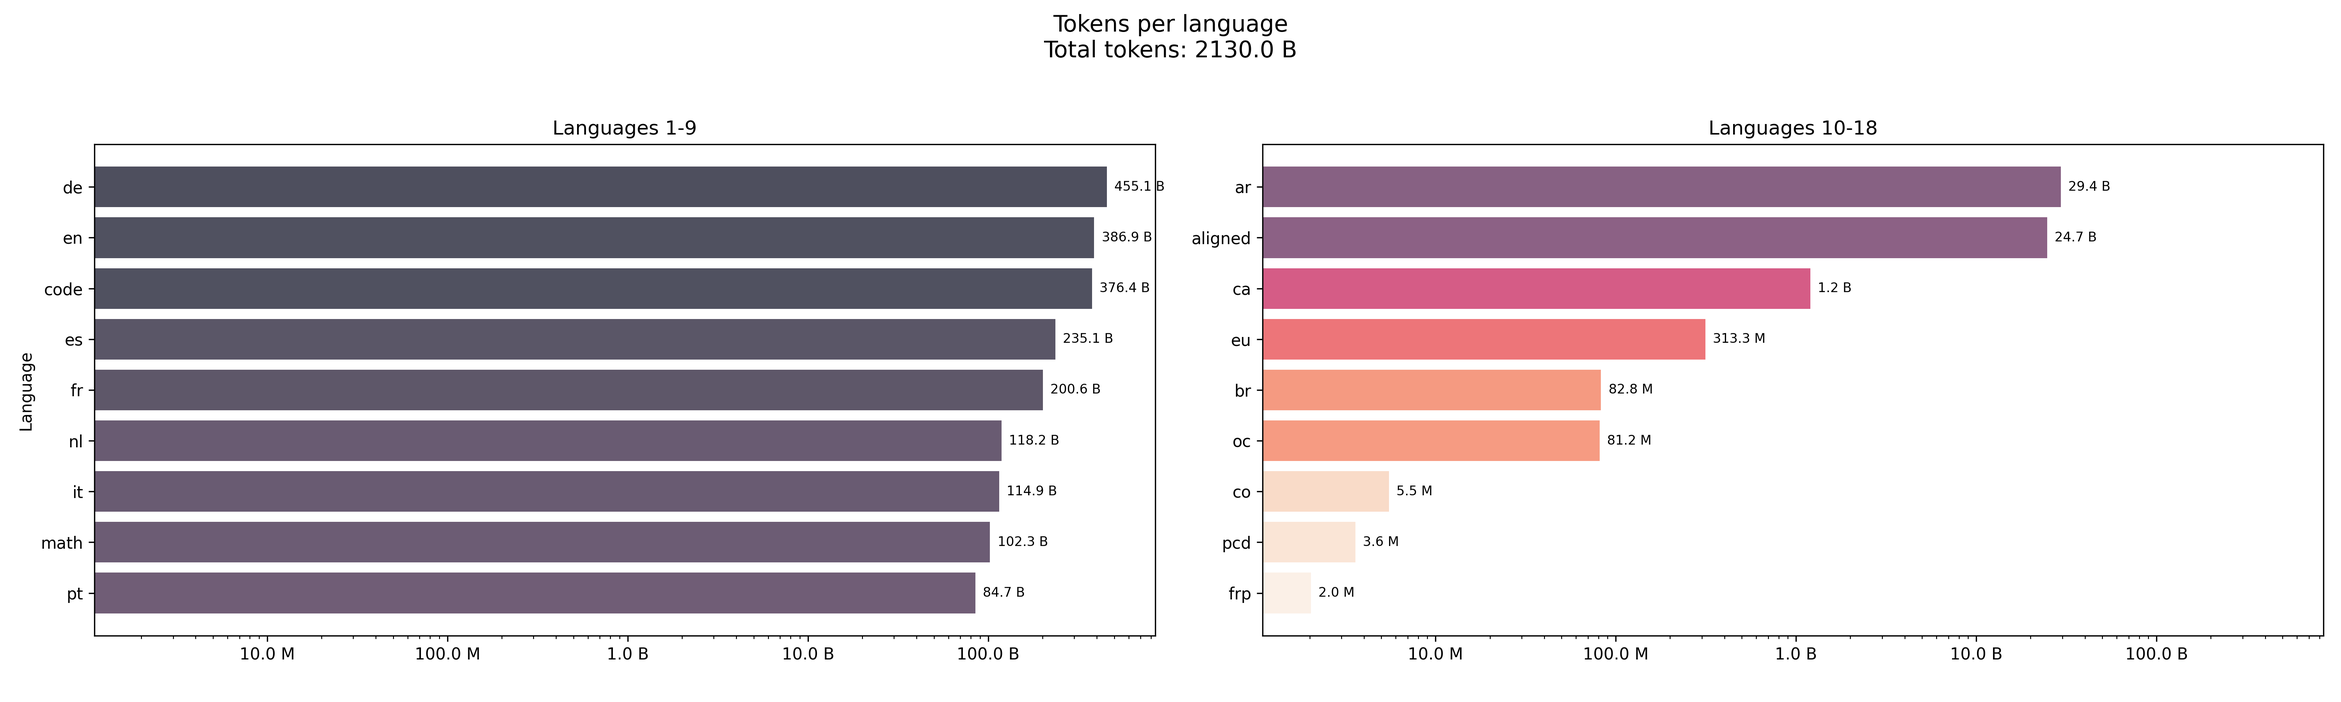
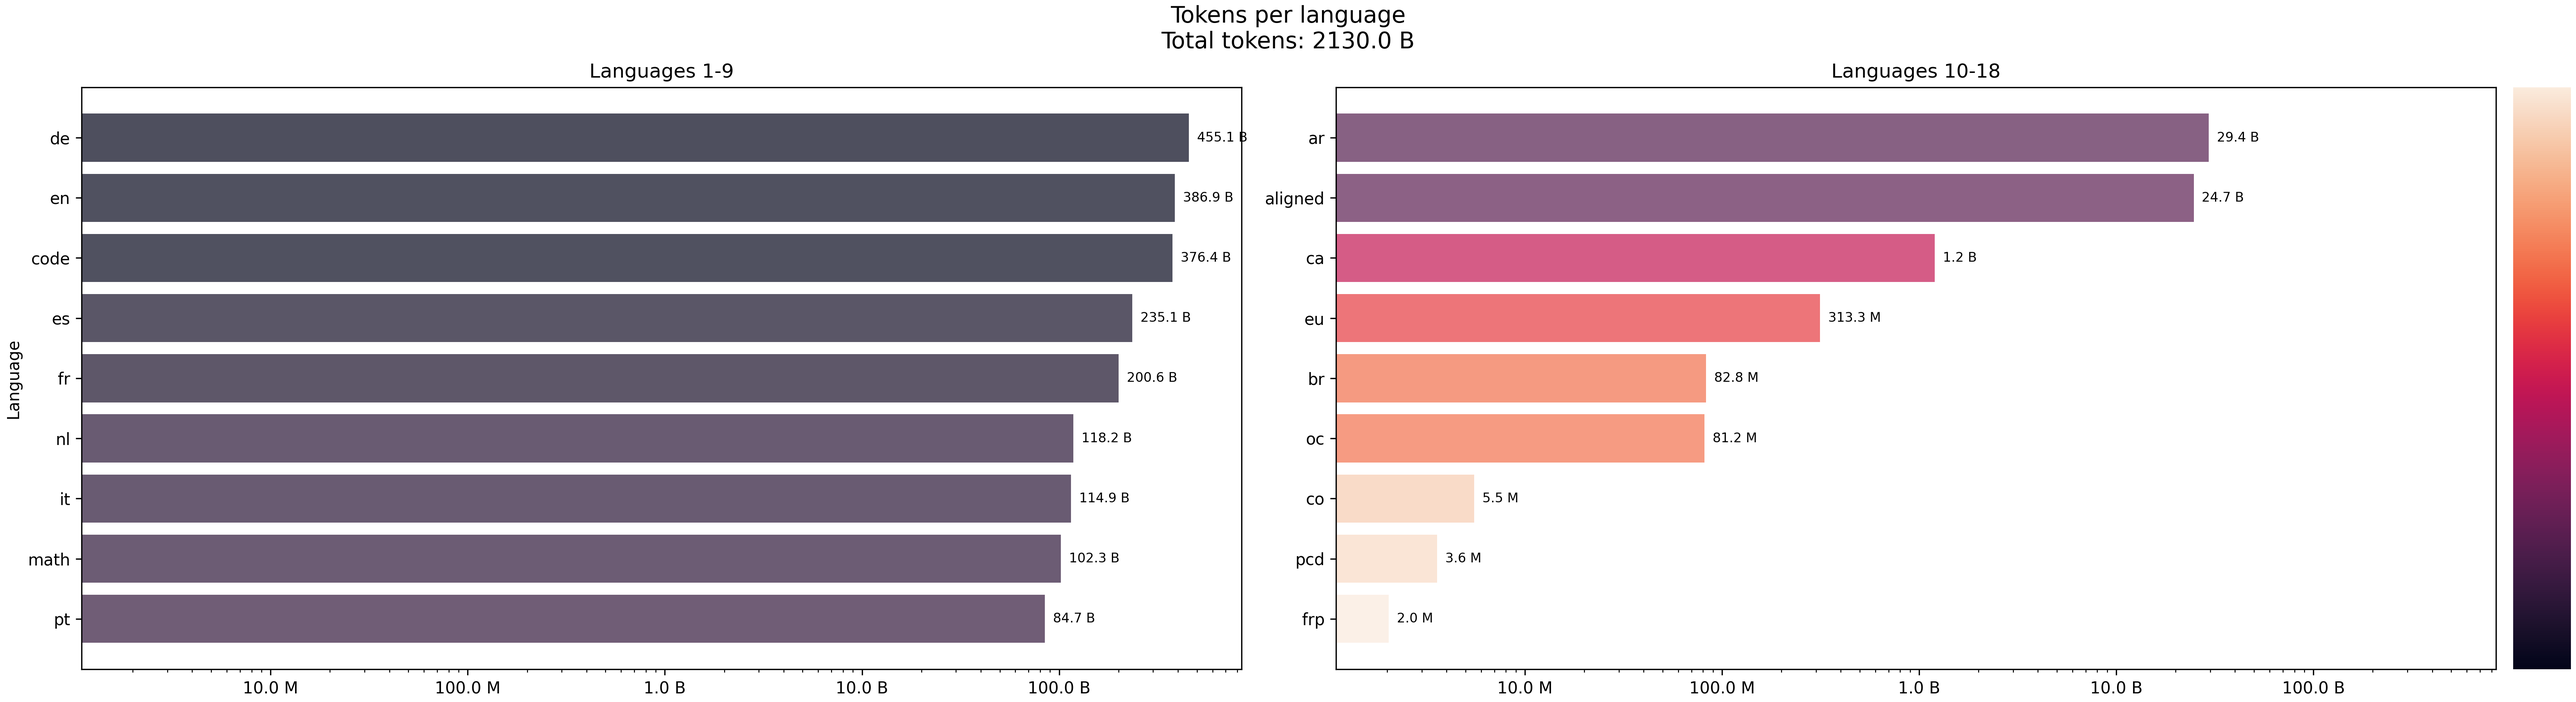
update plots

diff --git a/data/tokenization/run/visualize_token_stats.py b/data/tokenization/run/visualize_token_stats.py
@@ -10,6 +10,8 @@ from matplotlib.patches import Patch
 import math
 import numpy as np
 import matplotlib.colors as mcolors
+from matplotlib.cm import ScalarMappable
+from matplotlib.gridspec import GridSpec
 
 
 def format_tokens(tokens):
@@ -55,56 +57,57 @@ def plot_treemap(df, column_name, output_file):
     plt.close()
 
 
-# def plot_horizontal_bar(df, column_name, output_file):
-#     df = df.sort_values("total_tokens", ascending=False)
-
-#     num_bars = len(df)
-#     # Set height: base height 6 + 0.3 per bar, adjust to taste
-#     fig_height = max(6, num_bars * 0.3)
-
-#     plt.figure(figsize=(10, fig_height))
-#     colors = sb.color_palette("rocket", len(df))
-
-#     plt.barh(y=df[column_name], width=df["total_tokens"], color=colors, alpha=0.7)
-
-#     plt.xscale("log")
-#     plt.gca().xaxis.set_major_formatter(FuncFormatter(format_tokens_ticks))
-
-#     plt.xlabel("Total tokens (log scale)")
-#     plt.ylabel(column_name.capitalize())
-#     plt.title(
-#         f"Tokens per {column_name}\nTotal tokens: {df['total_tokens'].sum() / 1e9:.1f} B"
-#     )
-#     plt.gca().invert_yaxis()
-
-#     for i, (tokens, label) in enumerate(zip(df["total_tokens"], df[column_name])):
-#         plt.text(tokens * 1.1, i, format_tokens(tokens), va="center", fontsize=8)
-
-#     plt.tight_layout()
-#     plt.savefig(output_file, dpi=300)
-#     plt.close()
-
-
-def plot_horizontal_bar(df, column_name, output_file, num_columns=2):
+def plot_horizontal_bar(
+    df, column_name, output_file, num_columns=2, color_column="total_tokens"
+):
     df = df.reset_index(drop=True)
 
     total = len(df)
     rows_per_col = math.ceil(total / num_columns)
     fig_height = max(6, rows_per_col * 0.4)
-    fig_width = 10 * num_columns
+    fig_width = 10 * num_columns + 2  # Extra space for colorbar/legend
 
-    fig, axes = plt.subplots(
-        nrows=1, ncols=num_columns, figsize=(fig_width, fig_height), sharex=True
+    fig = plt.figure(figsize=(fig_width, fig_height), constrained_layout=True)
+    spec = GridSpec(
+        nrows=1,
+        ncols=num_columns + 1,
+        figure=fig,
+        width_ratios=[1] * num_columns + [0.05],
     )
 
-    if num_columns == 1:
-        axes = [axes]
+    axes = []
+    for i in range(num_columns):
+        if i == 0:
+            ax = fig.add_subplot(spec[0, i])
+        else:
+            ax = fig.add_subplot(spec[0, i], sharex=axes[0])
+        axes.append(ax)
 
-    # Normalize log10(total_tokens) for color mapping
-    log_tokens = np.log10(df["total_tokens"].clip(lower=1))  # avoid log(0)
-    norm = mcolors.Normalize(vmin=log_tokens.min(), vmax=log_tokens.max())
-    cmap = sb.color_palette("rocket", as_cmap=True)
-    colors = cmap(1 - norm(log_tokens))  # invert colors
+    legend_ax = fig.add_subplot(spec[0, -1])
+    legend_ax.axis("off")
+
+    # Color setup
+    if color_column == "total_tokens":
+        log_tokens = np.log10(df["total_tokens"].clip(lower=1))
+        norm = mcolors.Normalize(vmin=log_tokens.min(), vmax=log_tokens.max())
+        cmap = sb.color_palette("rocket", as_cmap=True)
+        colors = cmap(1 - norm(log_tokens))
+
+        sm = ScalarMappable(cmap=cmap, norm=norm)
+        sm.set_array([])
+        cbar = fig.colorbar(sm, cax=legend_ax, orientation="vertical")
+        cbar.set_label("log₁₀(Total Tokens)")
+
+    elif color_column in ["dataset", "group", "subset", "language"]:
+        unique_categories = df[color_column].astype("category").cat.categories
+        palette = sb.color_palette("hls", len(unique_categories))
+        color_map = dict(zip(unique_categories, palette))
+        colors = df[color_column].map(color_map)
+
+        handles = [
+            Patch(color=color_map[cat], label=str(cat)) for cat in unique_categories
+        ]
+        legend_ax.legend(handles=handles, title=color_column.capitalize(), loc="center")
 
     for i in range(num_columns):
         start = i * rows_per_col
@@ -134,7 +137,7 @@ def plot_horizontal_bar(df, column_name, output_file, num_columns=2):
         f"Tokens per {column_name}\nTotal tokens: {df['total_tokens'].sum() / 1e9:.1f} B",
         fontsize=14,
     )
-    fig.tight_layout(rect=[0, 0.03, 1, 0.95])
+
     fig.savefig(output_file, dpi=300)
     plt.close()
 
@@ -297,7 +300,9 @@ if __name__ == "__main__":
         .reset_index()
         .sort_values("total_tokens", ascending=False)
     )
-    df = df.sort_values(by=["dataset", "total_tokens"], ascending=[True, False])
+    df = df.sort_values(
+        by=["dataset", "language", "total_tokens"], ascending=[True, True, False]
+    )
 
     # Horizontal bar
     plot_horizontal_bar(
@@ -307,7 +312,14 @@ if __name__ == "__main__":
         dataset_df, "dataset", os.path.join(output_dir, "bar_datasets.png")
     )
     plot_horizontal_bar(group_df, "group", os.path.join(output_dir, "bar_group.png"))
-    plot_horizontal_bar(df, "name", os.path.join(output_dir, "bar_all.png"))
+    plot_horizontal_bar(
+        df,
+        "name",
+        os.path.join(output_dir, "bar_all.png"),
+        color_column="language",
+        num_columns=2,
+    )
+
     # Box plot
     plot_box_plot_from_summary(df, "name", os.path.join(output_dir, "boxplot_all.png"))
 
